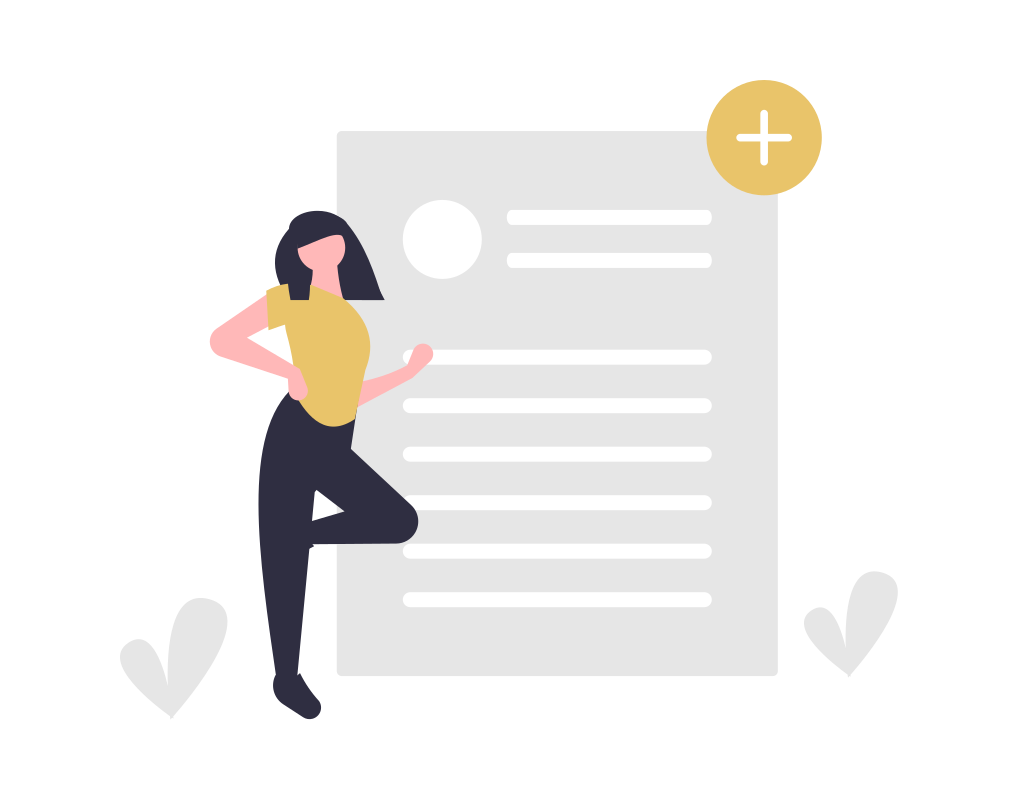
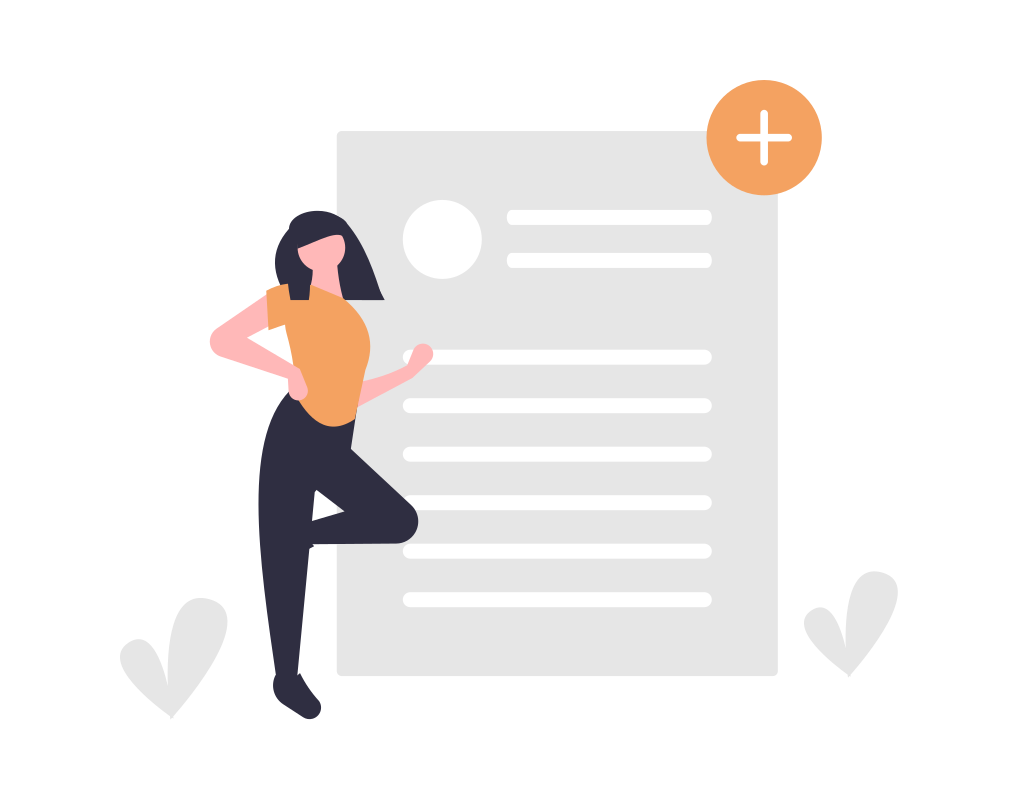
adding camera screeen and making height of card responsive.

Changed region(s): [[0.6699, 0.0938, 0.8222, 0.25], [0.2436, 0.3438, 0.3654, 0.5312]]

diff --git a/lib/screens/home_screen/doc_list.dart b/lib/screens/home_screen/doc_list.dart
@@ -7,6 +7,9 @@ class DocList extends StatelessWidget {
   final deleteCallback;
   DocList({@required this.docNames, @required this.deleteCallback});
 
+  double cardWidth = 0;
+  double cardHeight = 0;
+
   List<Widget> _generateCard(context) {
     return List.generate(
       docNames.length,
@@ -23,6 +26,7 @@ class DocList extends StatelessWidget {
           },
           child: DocCard(
               title: docNames[index],
+              cardHeight: cardHeight,
               thumbnail: index.isEven
                   ? 'assets/images/0.jpeg'
                   : 'assets/images/1.jpeg'),
@@ -33,20 +37,28 @@ class DocList extends StatelessWidget {
 
   @override
   Widget build(BuildContext context) {
+    Size size = MediaQuery.of(context).size;
+    // print((size.width * 0.5) / (size.height * 0.3));
+    this.cardWidth = size.width * 0.5;
+    this.cardHeight = size.height * 0.3;
+
     return docNames.length == 0
         ? SliverList(
             delegate: SliverChildListDelegate(
               [
-                Image.asset(
-                  'assets/images/empty.png',
-                  fit: BoxFit.fitWidth,
-                  height: 400,
+                Center(
+                  child: Image.asset(
+                    'assets/images/empty.png',
+                    fit: BoxFit.fitWidth,
+                    height: 400,
+                  ),
                 ),
               ],
             ),
           )
         : SliverGrid.count(
-            childAspectRatio: 0.87,
+            // childAspectRatio: 0.87,
+            childAspectRatio: this.cardWidth / this.cardHeight,
             crossAxisCount: 2,
             children: _generateCard(context),
           );

diff --git a/lib/screens/home_screen/search_box.dart b/lib/screens/home_screen/search_box.dart
@@ -4,17 +4,17 @@ class SearchBox extends StatelessWidget {
   @override
   Widget build(BuildContext context) {
     return SliverAppBar(
-      elevation: 0,
+      elevation: 10,
       floating: true,
       snap: true,
       pinned: true,
       title: Text('Sinc'),
       leading: IconButton(icon: Icon(Icons.menu), onPressed: () => null),
-      expandedHeight: 150,
+      expandedHeight: 110,
       shape: ContinuousRectangleBorder(
         borderRadius: BorderRadius.only(
-          bottomLeft: Radius.circular(100),
-          bottomRight: Radius.circular(100),
+          bottomLeft: Radius.circular(80),
+          bottomRight: Radius.circular(80),
         ),
       ),
       flexibleSpace: FlexibleSpaceBar(
@@ -25,7 +25,7 @@ class SearchBox extends StatelessWidget {
               right: 0,
               bottom: 10,
               child: Container(
-                height: 50,
+                height: 40,
                 margin: EdgeInsets.symmetric(horizontal: 20),
                 padding: EdgeInsets.symmetric(horizontal: 20),
                 decoration: BoxDecoration(
@@ -35,6 +35,7 @@ class SearchBox extends StatelessWidget {
                 child: TextField(
                   decoration: InputDecoration(
                     hintText: 'Search',
+                    contentPadding: EdgeInsets.symmetric(vertical: 10),
                     enabledBorder: InputBorder.none,
                     focusedBorder: InputBorder.none,
                     icon: Icon(Icons.search),

diff --git a/lib/screens/home_screen/home_screen.dart b/lib/screens/home_screen/home_screen.dart
@@ -1,5 +1,6 @@
 import 'package:flutter/material.dart';
 import 'package:sinc/file_operations.dart';
+import '../camera_screen/camera_screen.dart';
 import './search_box.dart';
 import './doc_list.dart';
 
@@ -39,7 +40,6 @@ class _HomeScreenState extends State<HomeScreen> {
   }
 
   void _addNewDoc() {
-    // TODO : Add new document to storage.
     // function to add new document
     String fileName = 'New File${this._docNames.length}';
     this.fileOperations.createDoc(fileName);
@@ -47,6 +47,13 @@ class _HomeScreenState extends State<HomeScreen> {
       _docNames.add(fileName);
       _thumbnails.add('new thumbnail');
     });
+  }
+
+  void _launchCamera(context) {
+    Navigator.push(
+      context,
+      MaterialPageRoute(builder: (context) => CameraScreen()),
+    );
   }
 
   @override
@@ -65,7 +72,7 @@ class _HomeScreenState extends State<HomeScreen> {
       floatingActionButton: FloatingActionButton.extended(
         icon: Icon(Icons.camera),
         label: Text('Scan'),
-        onPressed: _addNewDoc,
+        onPressed: () => _addNewDoc(),
       ),
     );
   }

diff --git a/lib/file_operations.dart b/lib/file_operations.dart
@@ -10,10 +10,6 @@ class FileOperations {
     // create document directory if does not exist
     this.documentDirectory =
         await Directory(documentDirPath).create(recursive: false);
-
-    // remove this after implementing
-    // await Directory(this.documentDirectory.path + '/Test document')
-    //     .create(recursive: false);
   }
 
   Future<List<String>> getDocPaths() async {
@@ -21,15 +17,6 @@ class FileOperations {
         this.documentDirectory.listSync(recursive: false);
 
     return List.generate(docs.length, (index) => docs[index].path);
-  }
-
-  Future<void> listDir() {
-    this
-        .documentDirectory
-        .list(recursive: true, followLinks: false)
-        .listen((event) {
-      print(event.path);
-    });
   }
 
   void createDoc(String docName) {
@@ -40,6 +27,5 @@ class FileOperations {
   void deleteDoc(String docName) {
     Directory(this.documentDirectory.path + '/$docName')
         .deleteSync(recursive: true);
-    listDir();
   }
 }

diff --git a/lib/screens/camera_screen/camera_screen.dart b/lib/screens/camera_screen/camera_screen.dart
@@ -1,0 +1,25 @@
+import 'package:flutter/material.dart';
+
+class CameraScreen extends StatefulWidget {
+  @override
+  _CameraScreenState createState() => _CameraScreenState();
+}
+
+class _CameraScreenState extends State<CameraScreen> {
+  @override
+  Widget build(BuildContext context) {
+    return Scaffold(
+      appBar: AppBar(),
+      body: Column(
+        crossAxisAlignment: CrossAxisAlignment.stretch,
+        children: <Widget>[
+          Container(
+            width: 300,
+            height: 400,
+            color: Colors.pink,
+          )
+        ],
+      ),
+    );
+  }
+}

diff --git a/lib/screens/home_screen/doc_card.dart b/lib/screens/home_screen/doc_card.dart
@@ -3,10 +3,11 @@ import '../../colors.dart';
 
 class DocCard extends StatelessWidget {
   final String title, thumbnail;
-
+  final double cardHeight;
   DocCard({
     @required this.title,
     @required this.thumbnail,
+    @required this.cardHeight,
   });
 
   @override
@@ -36,7 +37,7 @@ class DocCard extends StatelessWidget {
             ),
             child: Image.asset(
               this.thumbnail,
-              height: 150,
+              height: this.cardHeight * 0.6,
               fit: BoxFit.cover,
             ),
           ),

diff --git a/lib/main.dart b/lib/main.dart
@@ -1,8 +1,14 @@
 import 'package:flutter/material.dart';
+import 'package:camera/camera.dart';
 import './screens/home_screen/home_screen.dart';
 import './theme.dart';
 
-void main() => runApp(App());
+void main() {
+  // WidgetsFlutterBinding.ensureInitialized();
+  // final cameras = await availableCameras();
+  // final firstCamera = cameras.first;
+  runApp(App());
+}
 
 class App extends StatelessWidget {
   @override

diff --git a/lib/colors.dart b/lib/colors.dart
@@ -1,5 +1,5 @@
 import 'package:flutter/material.dart';
 
-const kPrimary = const Color(0xFFE9C46A);
+const kPrimary = const Color(0xFFe76f51);
 const kScaffoldBackground = Colors.white;
 const kShadow = const Color(0xFF696969);
